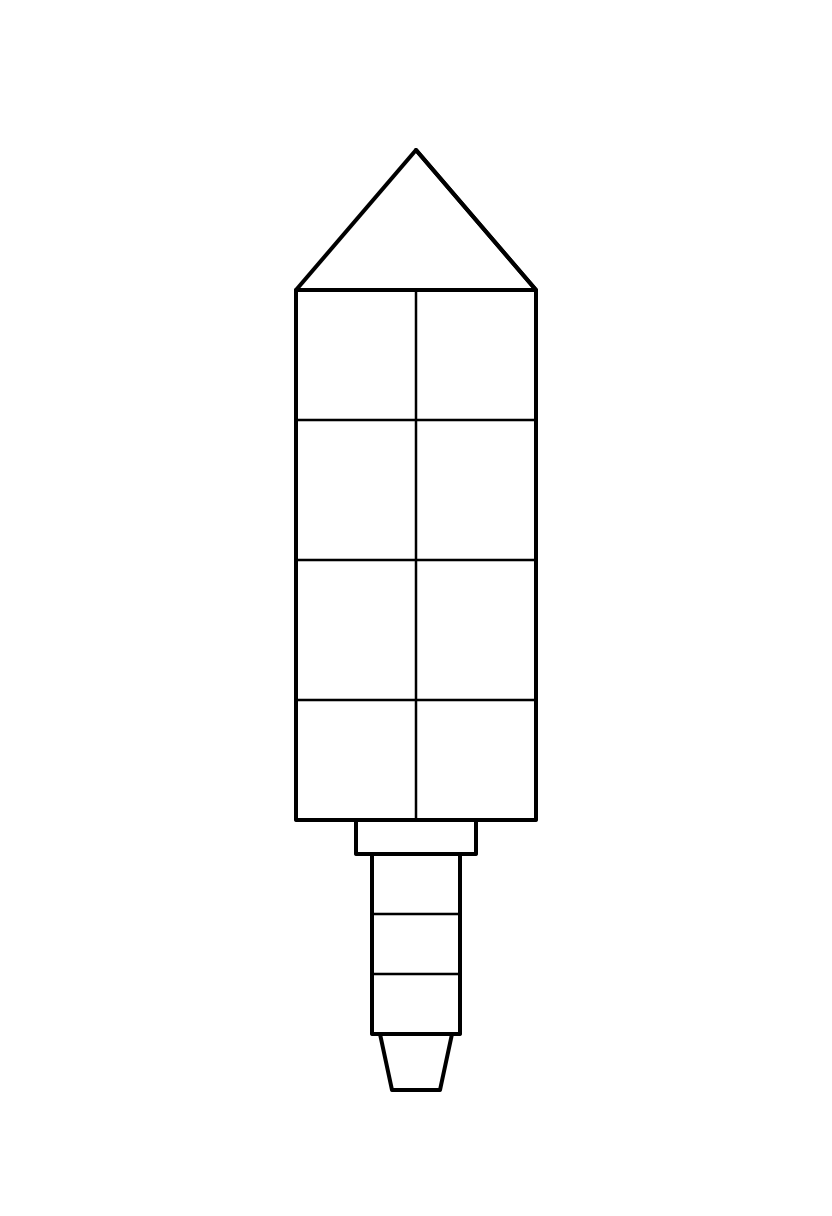
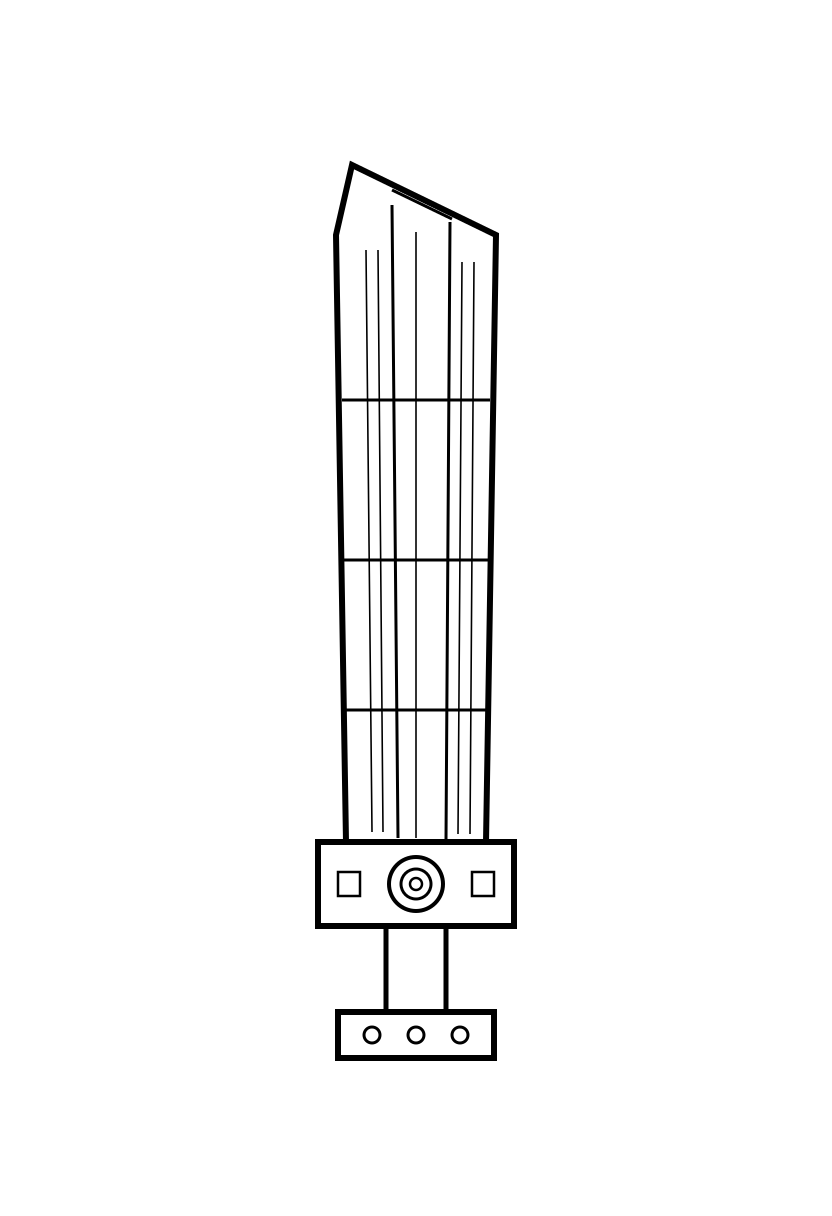
P1 = Silent Monolith obelisk (no tip/guard/grip; drive-hub + flux-pin base); record concept

Changed region(s): [[0.3438, 0.125, 0.6562, 0.9062]]

diff --git a/tools/zenith_blade_render/render_zenith_blade_p1p2p3.py b/tools/zenith_blade_render/render_zenith_blade_p1p2p3.py
@@ -21,15 +21,19 @@ DATE = "20260602"
 NEG = ("character, person, hand, arm, wielder, body, face, scene, environment, floor, props, "
        "katana curve, curved scimitar, thin elegant blade, slender, fantasy ornament, glowing runes, "
        "laser sword, lightsaber, plasma, chrome glossy mirror, anime, cartoon, "
+       "popsicle, ice cream, ice cream bar, lollipop, candy, dessert, food, toy, miniature, cute, "
        "low quality, blurry, jpeg artifact, watermark, text labels, ui frame")
 
 # phase -> (control image, positive prompt, controlnet strength)
 PHASES = {
   "P1": ("ZBLADE_CTRL_P1.png",
-    "isolated heavy industrial greatsword in a CLOSED COMPACT BLOCK form, massive 350kg, "
-    "smooth matte white Boron Carbide porcelain shell #FAFAFA, square brutal monolithic block, "
-    "chamfered edges, sealed seams, sterile clean surface, dim hidden core, no glow, "
-    "single object centered vertical, neutral dark background, flat diffuse product lighting", 0.62),
+    "isolated MASSIVE 350kg monolithic obelisk weapon, brutalist architecture, a long faceted dense ceramic beam "
+    "with a decisive flat-cut top, sharp square edges, NO pointed tip, NO crossguard, NO wrapped grip, NOT a sword, "
+    "looks like a frozen reactor core block, smooth matte white Boron Carbide #FAFAFA that swallows light, sterile cold luxurious, "
+    "ultra-thin pressure grooves down the body, a faint blurred deep red #E60000 imprisoned far beneath the white ceramic, no glow no LED, "
+    "rectangular hydraulic drive-hub with flush concentric mechanical rings, flat titanium flux-pinning base, "
+    "heavy industrial hardware, silent dormant, single object centered vertical, neutral dark background, flat diffuse lighting",
+    0.74),
   "P2": ("ZBLADE_CTRL_OPEN.png",
     "isolated heavy industrial greatsword 350kg, white B4C porcelain shell SPLITTING OPEN along kintsugi cracks, "
     "black rusty titanium internal frame beginning to show through gaps, ferro-calcium core warming faint red, "

diff --git a/docs/handoff/MIKAGE_ZENITH_BLADE_SPEC_V1.md b/docs/handoff/MIKAGE_ZENITH_BLADE_SPEC_V1.md
@@ -65,6 +65,13 @@ Final resolution: the 3 Pha are the **weapon's 3 activation stages** (P1 Compact
 
 `COMPACT_IDLE` is reinstated as the OFFICIAL P1 name, but REDEFINED: it means a **closed / compact BLOCK** — the B4C shell shut, Titanium plates contracted tight, smooth square brutal block, core dim (43°C), flux-pinned to Mikage's back. It is NOT the earlier-deprecated "shrunk mini module" (that interpretation stays dead). The weapon is full-size; "compact" = closed geometry, not miniaturized.
 
+### P1 visual concept — "The Silent Monolith / Khối Trụ Vô Khẩu" (operator brief 2026-06-02)
+- Form = **monolithic obelisk / brutalist architecture beam**, NOT a sword: a long faceted dense ceramic block with a **decisive flat-cut top**, sharp square edges. **No pointed tip, no crossguard, no wrapped/leather grip.** Reads like a frozen reactor-core block / a fallen Imperial-architecture fragment.
+- Visual weight = extremely dense/solid; must convey the 350 kg pressing on the armour's hydraulics.
+- Material = B4C #FAFAFA matte that SWALLOWS light (sterile, cold, luxurious Imperial), with ultra-thin pressure grooves down the body. **No LED, totally silent**; only a faint blurred **#E60000** imprisoned deep beneath the white ceramic ("hot blood frozen in sterile ice").
+- Interface = industrial hardware: a **rectangular hydraulic Drive Hub + flush concentric mechanical rings (0.0mm tolerance)** instead of a guard; a **flat Titanium Flux-Pinning base** with magnetic ports instead of a pommel — hovers 0.5mm off the back armour, no sheath, no strap.
+- Control image: `tools/zenith_blade_render/inputs/ZBLADE_CTRL_P1.png` (v4, monolith).
+
 ## 4. Open Flags — RESOLVED (§0b ruling + §0 audit)
 
 1. ~~Naming~~ → SAME weapon (Zenith Blade = Thanh Đại Đao 3 Pha).
